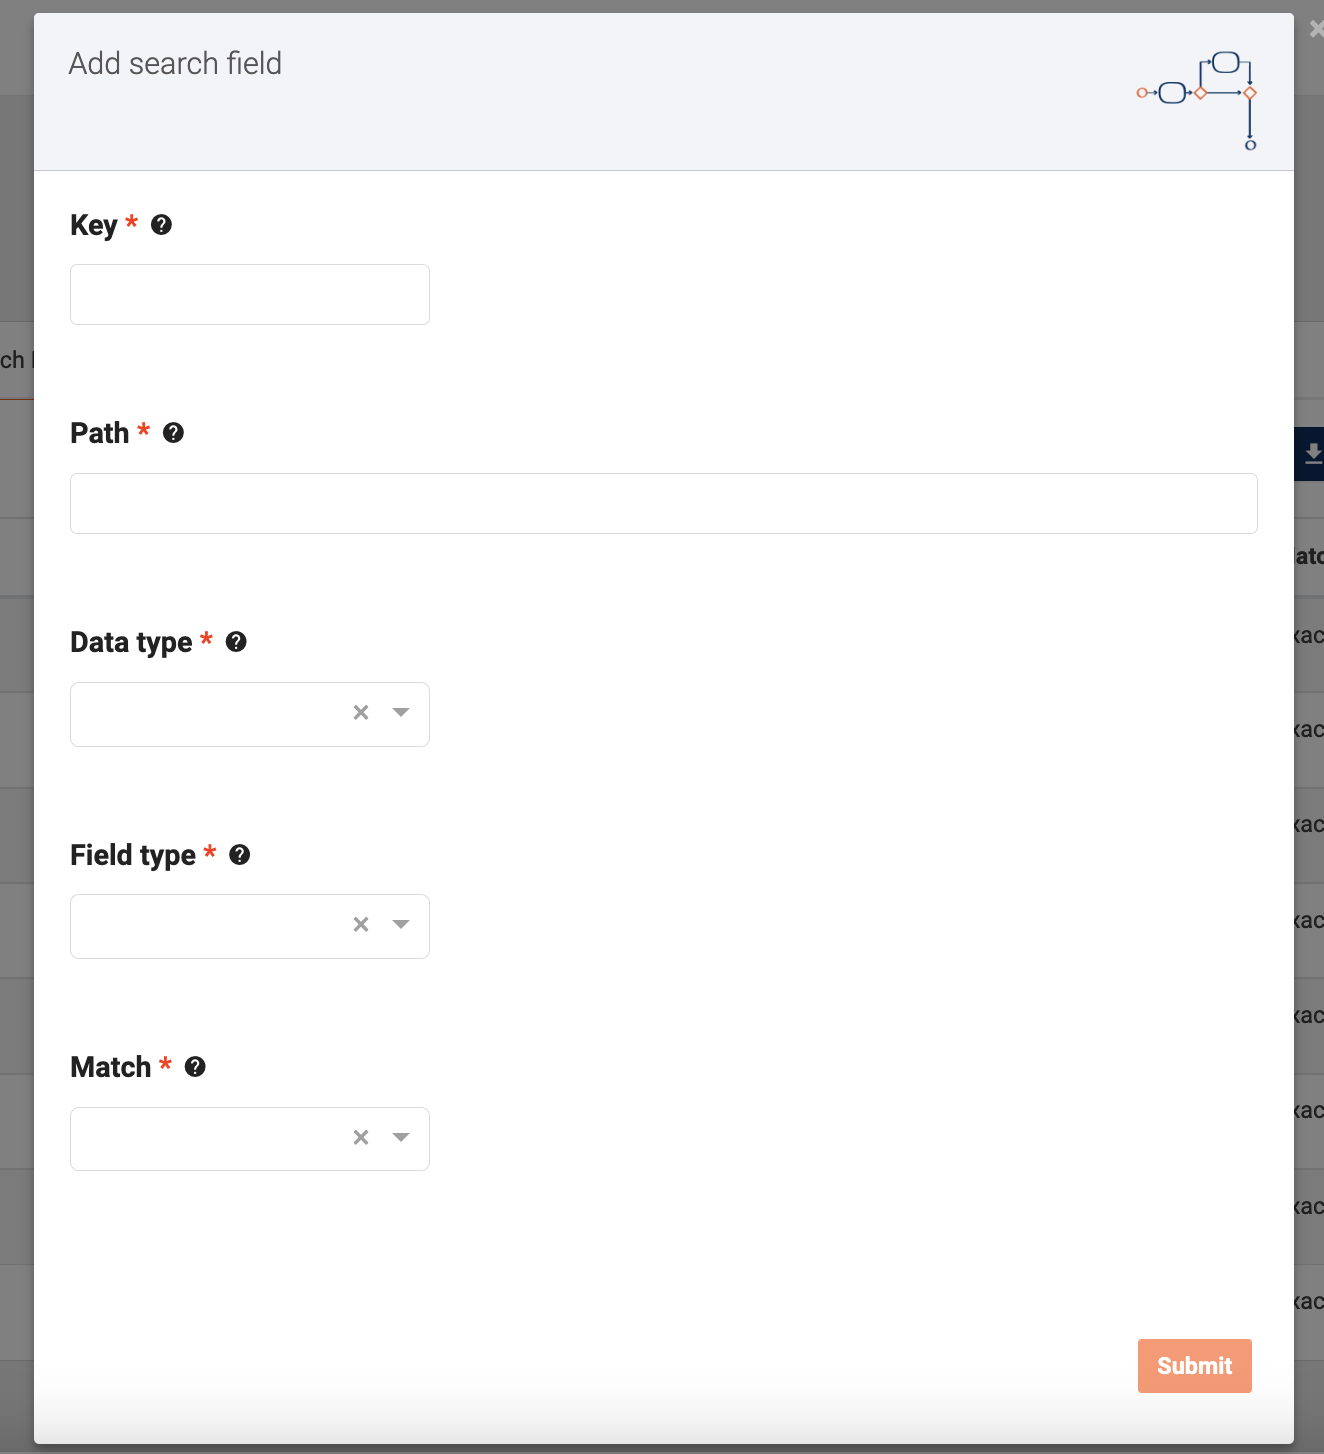
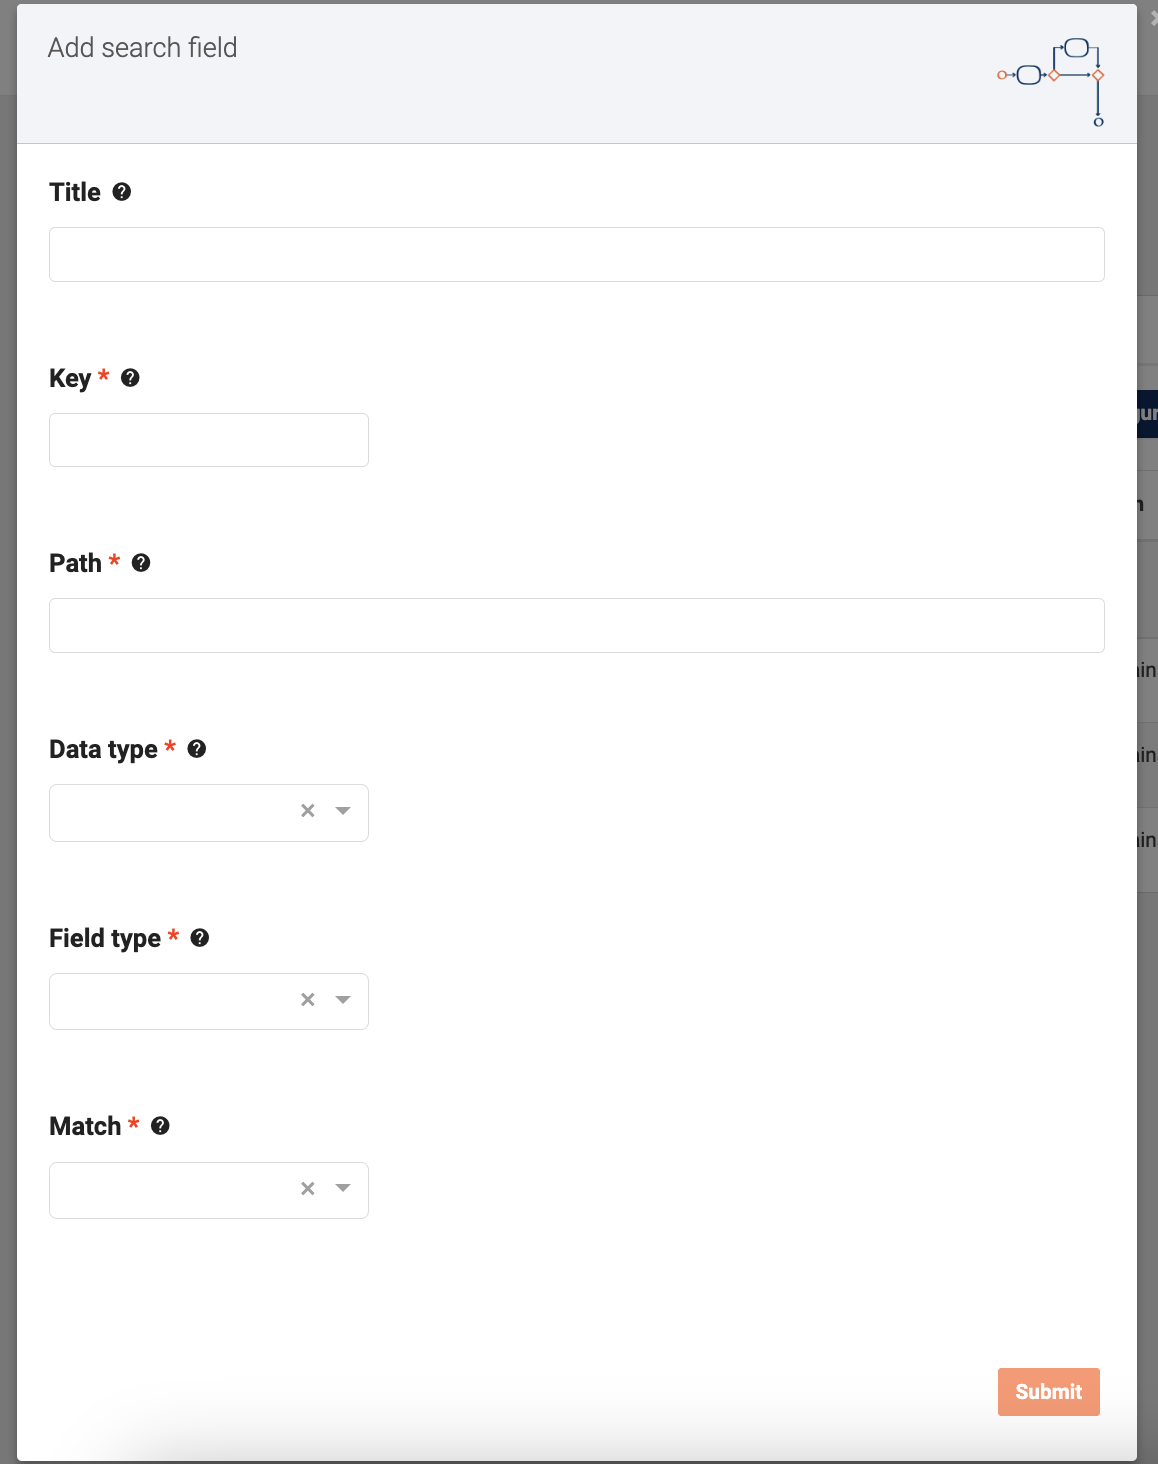
added doc about search fields title

Changed region(s): [[0.0, 0.0, 1.0, 1.0]]

diff --git a/using-valtimo/document/configuring-search-fields.md b/using-valtimo/document/configuring-search-fields.md
@@ -65,10 +65,11 @@ of moving the line, the reorder buttons will be disabled.
 
 The component handles these types of search fields:
 
-| Search field | Available types                                        | Editable     |
-|:-------------|:-------------------------------------------------------|:-------------|
-| **Key**          | Text                                                   | _Not editable_ |
-| **Path**         | Text                                                   | _Editable_     |
-| **Data type**    | Text<br/>Number<br/>Date<br/>Date and time<br/>Boolean | _Editable_      |
-| **Field type**   | Single<br/>Range                                       | _Editable_       |
-| **Match type**   | Exact<br/>Contains                                     | _Editable_       |
+| Search field   | Available types                                        | Editable     |
+|:---------------|:-------------------------------------------------------|:-------------|
+| **Title**      | Text                                                   | _Editable_ |
+| **Key**        | Text                                                   | _Not editable_ |
+| **Path**       | Text                                                   | _Editable_     |
+| **Data type**  | Text<br/>Number<br/>Date<br/>Date and time<br/>Boolean | _Editable_      |
+| **Field type** | Single<br/>Range                                       | _Editable_       |
+| **Match type** | Exact<br/>Contains                                     | _Editable_       |

diff --git a/extending-valtimo/document/configuring-search-fields.md b/extending-valtimo/document/configuring-search-fields.md
@@ -11,11 +11,12 @@ There are two methods available to create a search field:
 
 ```json
 {
-    "key": "key_to_search_on",
-    "path": "/some/json/path/to/key",
-    "datatype": "date",
-    "fieldtype": "range",
-    "matchtype": "exact"
+  "title": "title",   
+  "key": "key_to_search_on",
+  "path": "/some/json/path/to/key",
+  "dataType": "date",
+  "fieldType": "range",
+  "matchType": "exact"
 }
 ```
 
@@ -27,6 +28,7 @@ should have the following structure:
 {
     "searchFields": [
         {
+            "title": "title",
             "key": "key",
             "path": "/path/to/key",
             "dataType": "text",
@@ -54,11 +56,12 @@ An existing search field can be updated with new values by calling the following
 
 ```json
 {
+  "title": "title",
   "key": "key_to_search_on",
   "path": "/some/json/path/to/key",
-  "datatype": "boolean",
-  "fieldtype": "single",
-  "matchtype": "exact"
+  "dataType": "boolean",
+  "fieldType": "single",
+  "matchType": "exact"
 }
 ```
 

diff --git a/release-notes/major9/09.25.0/valtimo-frontend-libraries.md b/release-notes/major9/09.25.0/valtimo-frontend-libraries.md
@@ -18,6 +18,15 @@ The following features were added:
 
   For more information on this feature, see [this page](/using-valtimo/document/configuring-search-fields.md).
 
+* **Added a new input field for case search field configuration modal**
+
+  Add new input to configure the case search field title.
+
+  The title is an optional field that appears as a label for the current search field. When the title is not set, 
+  the default value will be the search field key translation (if there is no translation available, the original key value will be displayed).
+
+  For more information on this feature, see [this page](/using-valtimo/document/configuring-search-fields.md).
+
 ## Bugfixes
 
 The following bugs were fixed:
